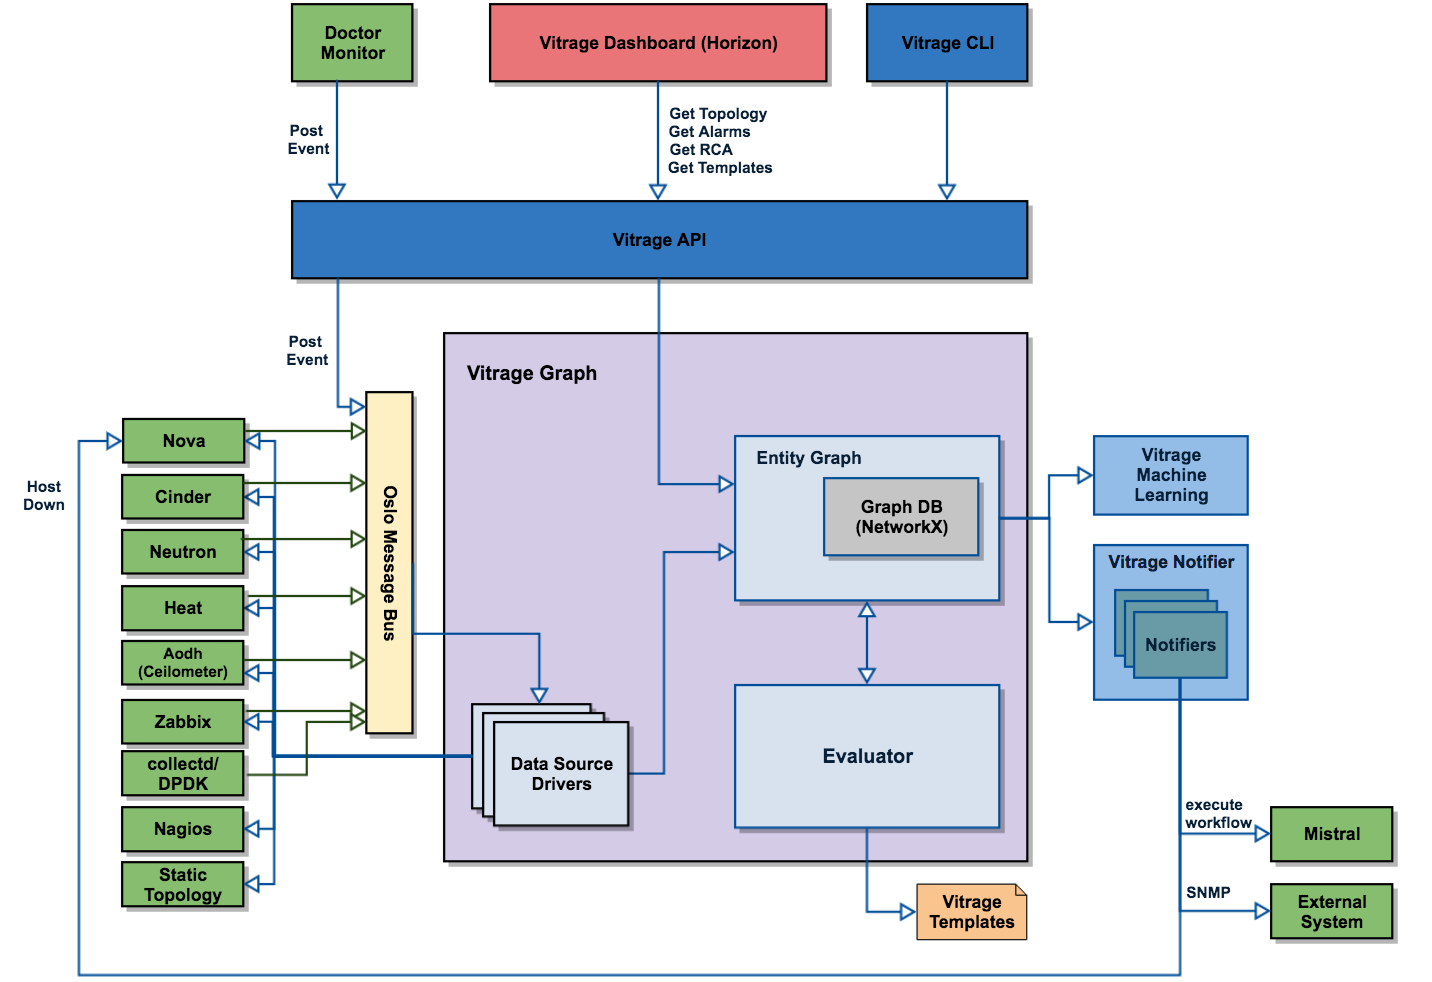
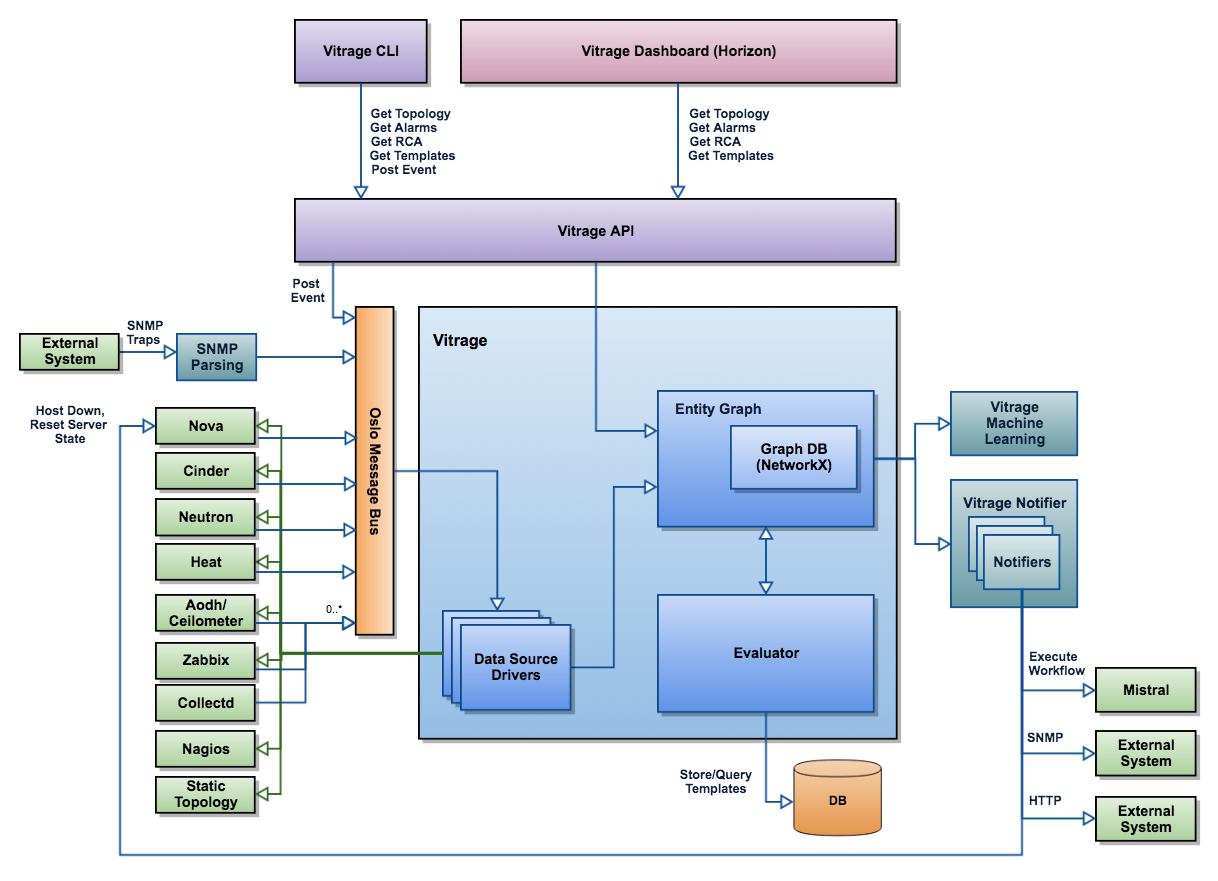
Update the documentation of Vitrage architecture in Queens

diff --git a/doc/source/index.rst b/doc/source/index.rst
@@ -49,8 +49,9 @@ an RCA (Root Cause Analysis) relationship between alarms, raise a deduced alarm
 or set a deduced state.
 
 **Vitrage Notifiers** can be used to notify external systems of Vitrage alarms
-and states. Currently Vitrage has an Aodh notifier for raising Vitrage alarms
-in Aodh, and a Nova notifier for marking that the host is down.
+and states. The following notifiers are currently supported: Nova (update the
+states of the host and instances), Mistral (execute workflows), SNMP and HTTP
+webhooks.
 
 Installation Guide
 ------------------
